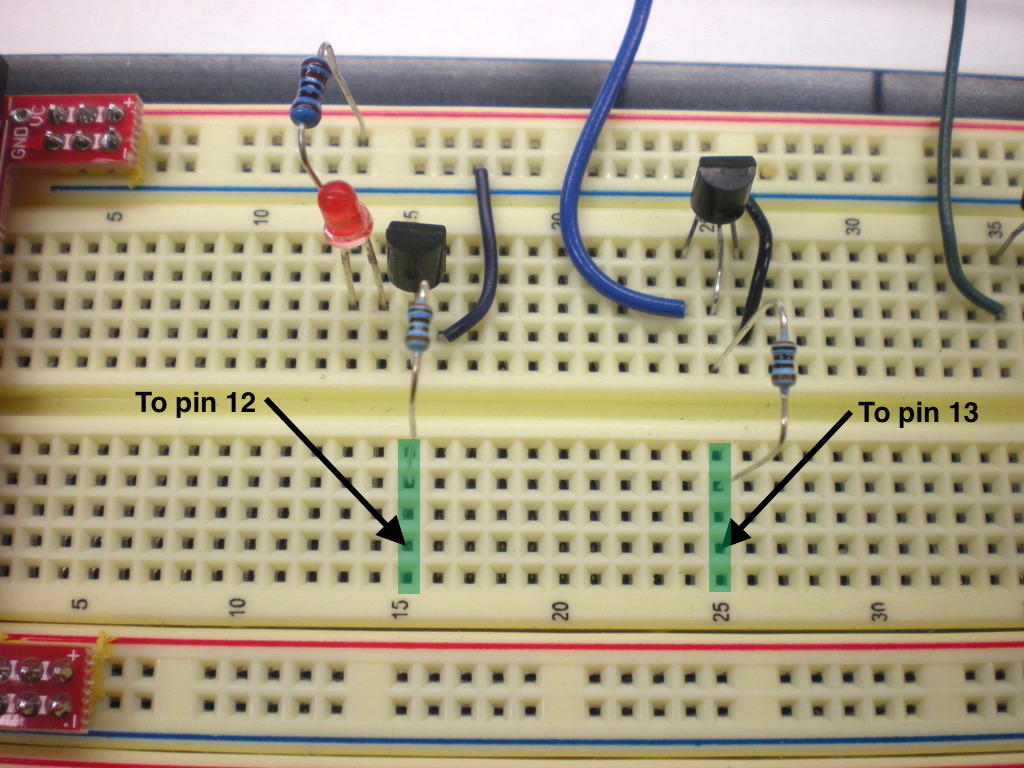
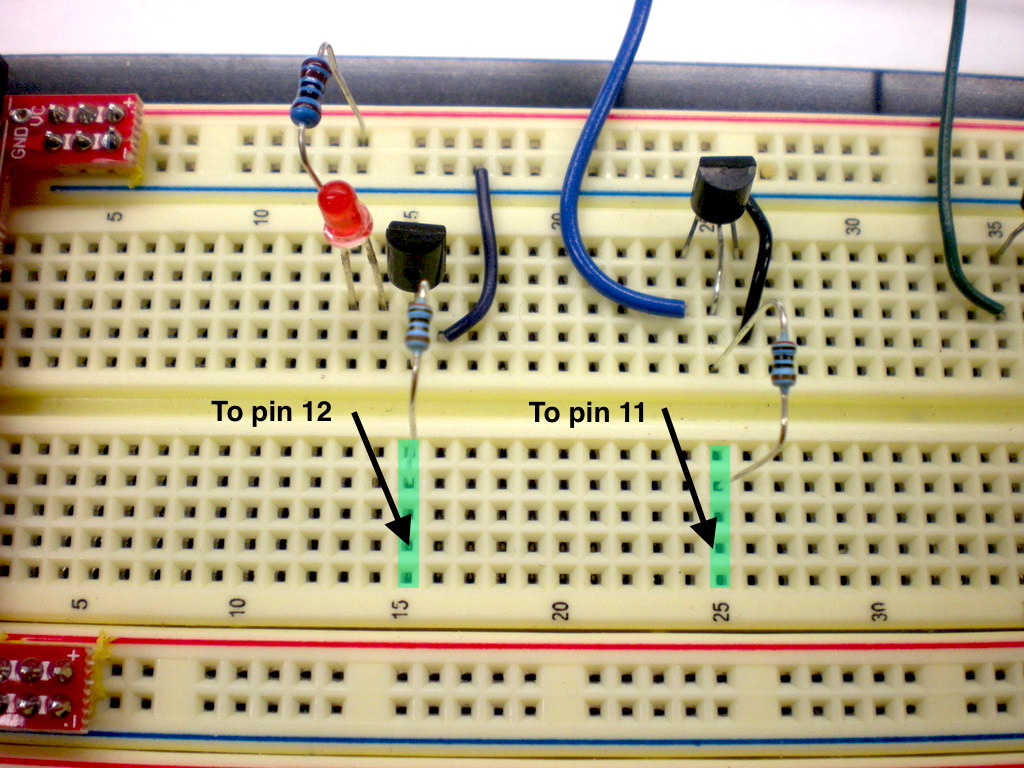
page fixes again

diff --git a/docs/arduino.md b/docs/arduino.md
@@ -7,7 +7,9 @@ permalink: /docs/arduino/
 ---
 
 Now, we are ready to control our electronics using a microcontroller
-robot. The microcontroller we will be using is called an Arduino Nano. **It is very important that we do not touch the Arduino with bare hands. The oils on our skins can cause its exposed pins to connect to each other incorrectly and damage the electronics.**
+robot. The microcontroller we will be using is called an Arduino Nano. 
+
+
 
 <!-- <img src="http://upload.wikimedia.org/wikipedia/commons/8/8d/Arduino_Nano.jpg" style="width: 500px"/> -->
 
@@ -20,6 +22,12 @@ are what we are going to use to connect the Arduino to our electrical
 circuits.
 
 In the programs, we will refer to pins by their name. The pins "A0" through "A7" can be referred to exactly that way, while the pins "D2" through "D13" are simply referred to as "2" through "13". 
+
+We must respect several rules when using the Arduino, in order to protect it: 
+
+1. **Always connect the breadboard to power before connecting the Arduino to the computer(by plugging the little red power supplies to the wall via a 9V supply with round power connector).**
+2. **When switching pin locations, unplug the Arduino and the power source, in that order. Then move pins, double check their locations, and plug the power source in and then the Arduino in.**
+3. **It is very important that we do not touch the Arduino with bare hands when it is powered. The oils on our skins can cause its exposed pins to connect to each other incorrectly and damage the electronics.**
 
 Let's program the Arduino! To do this, first connect the Arduino
 to your computer using the USB cable.

diff --git a/docs/shiftregisters.md b/docs/shiftregisters.md
@@ -20,7 +20,7 @@ Why, by using shift registers of course!
 Connect the following segments on the breadboard to pins 10, 11 and 12
 on the Arduino as shown:
 
-<img src="{{ site.baseurl }}/img/c-shiftreg-highlights-close-3.png" style="width: 650px"/>
+<img src="{{ site.baseurl }}/img/c-shiftreg-highlights-close-4.png" style="width: 650px"/>
 
 Now upload the sketch from **File > Sketchbook > Patterns, Loops, and Timing > **shift-registers**.
 
